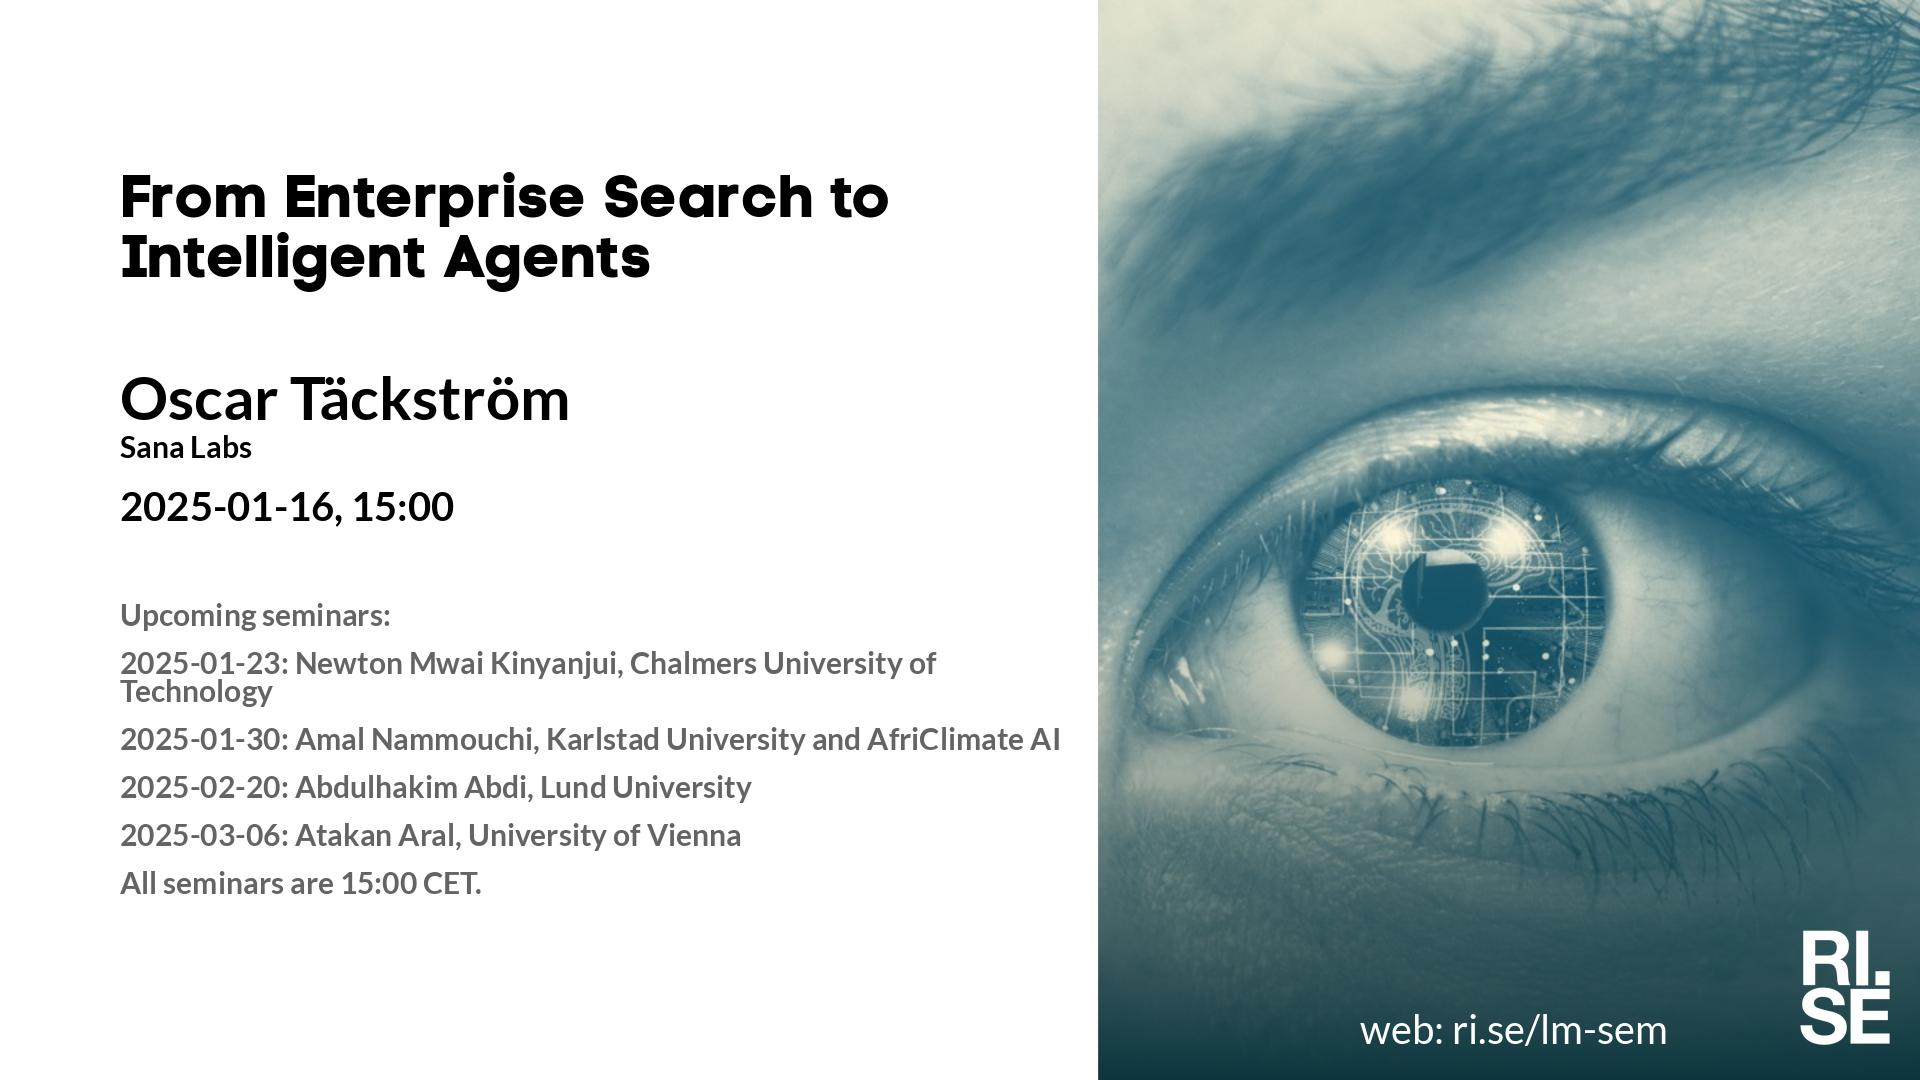
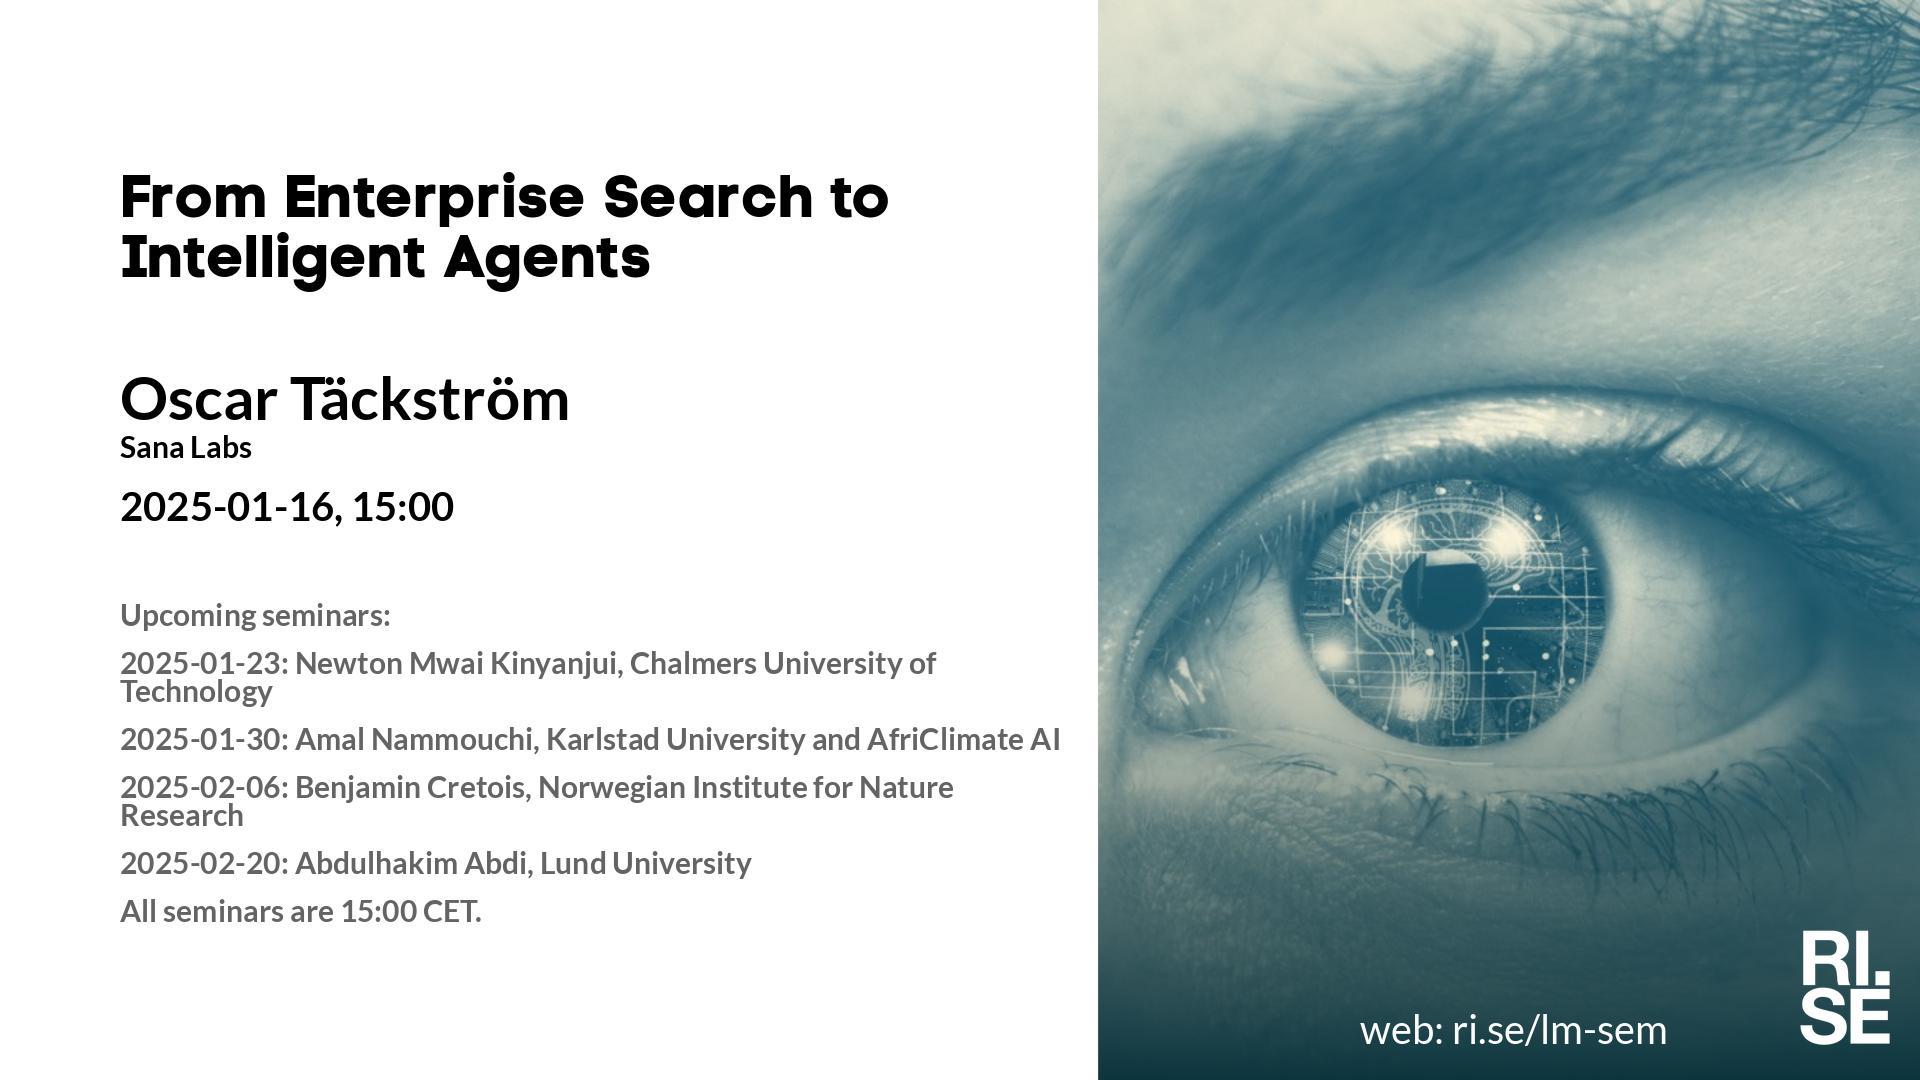
Updated plan on web site.

Changed region(s): [[0.0625, 0.7028, 0.5, 0.8556]]

diff --git a/lm/index.md b/lm/index.md
@@ -13,7 +13,7 @@ table {border-collapse: collapse;}
 |  2025-01-16  |  [Oscar Täckström, Sana Labs](2025-01-16.md)  |  [photo](photo-oscar-tackstrom.jpg)  |  [social media ](social-media-oscar-tackstrom.jpg)  |  [meeting backdrop ](meeting-backdrop-oscar-tackstrom.jpg)  |  [youtube thumbnail ](youtube-thumbnail-oscar-tackstrom.jpg)  |  STABP  |
 |  2025-01-23  |  [Newton Mwai Kinyanjui, Chalmers University of Technology](2025-01-23.md)  |  [photo](photo-newton-mwai-kinyanjui.jpg)  |  [social media ](social-media-newton-mwai-kinyanjui.jpg)  |  [meeting backdrop ](meeting-backdrop-newton-mwai-kinyanjui.jpg)  |  [youtube thumbnail ](youtube-thumbnail-newton-mwai-kinyanjui.jpg)  |  STABP  |
 |  2025-01-30  |  [Amal Nammouchi, Karlstad University and AfriClimate AI](2025-01-30.md)  |  [photo](photo-amal-nammouchi.jpg)  |  [social media ](social-media-amal-nammouchi.jpg)  |  [meeting backdrop ](meeting-backdrop-amal-nammouchi.jpg)  |  [youtube thumbnail ](youtube-thumbnail-amal-nammouchi.jpg)  |  STABP  |
-| <span style="color:grey"> 2025-02-06 </span> | <span style="color:grey"> Benjamin C. ? </span> | <span style="color:grey">  </span> | <span style="color:grey">  </span> | <span style="color:grey">  </span> | <span style="color:grey">  </span> | <span style="color:grey"> S~~TABP~~ </span> |
+|  2025-02-06  |  [Benjamin Cretois, Norwegian Institute for Nature Research](2025-02-06.md)  |    |  [social media ](social-media-benjamin-cretois.jpg)  |  [meeting backdrop ](meeting-backdrop-benjamin-cretois.jpg)  |  [youtube thumbnail ](youtube-thumbnail-benjamin-cretois.jpg)  |  S~~TABP~~  |
 | <span style="color:red"> 2025-02-13 </span> | <span style="color:red"> Sportlov GBG </span> | <span style="color:red">  </span> | <span style="color:red">  </span> | <span style="color:red">  </span> | <span style="color:red">  </span> | <span style="color:red"> CANCELLED </span> |
 |  2025-02-20  |  [Abdulhakim Abdi, Lund University](2025-02-20.md)  |  [photo](photo-abdulhakim-abdi.jpg)  |  [social media ](social-media-abdulhakim-abdi.jpg)  |  [meeting backdrop ](meeting-backdrop-abdulhakim-abdi.jpg)  |  [youtube thumbnail ](youtube-thumbnail-abdulhakim-abdi.jpg)  |  S~~TAB~~P  |
 | <span style="color:red"> 2025-02-27 </span> | <span style="color:red"> Sportlov STHLM </span> | <span style="color:red">  </span> | <span style="color:red">  </span> | <span style="color:red">  </span> | <span style="color:red">  </span> | <span style="color:red"> CANCELLED </span> |

diff --git a/lm/2025-02-06.md b/lm/2025-02-06.md
@@ -1,0 +1,35 @@
+---
+layout: default
+metatags: "<meta name=\"robots\" content=\"noindex,nofollow\" />"
+---
+ 
+Welcome to this week's Learning Machines seminar.
+
+This seminar is a collaboration between RISE and Climate AI Nordics -- [climateainordics.com](https://climateainordics.com/).
+
+**Title:** N/A
+
+**Speaker:** Benjamin Cretois, Norwegian Institute for Nature Research
+
+**Abstract:** N/A
+
+**About the speaker:** N/A
+
+**Location:** This is an online seminar. Connect using Zoom.
+
+**Date:** 2025-02-06 15:00
+
+**Zoom link:** [https://rise.zoom.us/j/69691371971?pwd=zYCr1brygacBa1opkT7BaiYf7Wwt4b.1](https://rise.zoom.us/j/69691371971?pwd=zYCr1brygacBa1opkT7BaiYf7Wwt4b.1)
+
+**Upcoming seminars:**
+
+* 2025-02-20: Abdulhakim Abdi, Lund University
+* 2025-03-06: Atakan Aral, University of Vienna
+* 2025-03-13: Sherrie Wang, MIT
+* 2025-03-27: María J. Molina, University of Maryland
+* All seminars are 15:00 CET.
+
+More information and coming seminars: [https://ri.se/lm-sem](https://ri.se/lm-sem)
+
+-- The Learning Machines Team
+

diff --git a/lm/2025-01-16.md b/lm/2025-01-16.md
@@ -28,8 +28,8 @@ Sana is an AI company on a mission to advance how humans access knowledge with A
 
 * 2025-01-23: Newton Mwai Kinyanjui, Chalmers University of Technology
 * 2025-01-30: Amal Nammouchi, Karlstad University and AfriClimate AI
+* 2025-02-06: Benjamin Cretois, Norwegian Institute for Nature Research
 * 2025-02-20: Abdulhakim Abdi, Lund University
-* 2025-03-06: Atakan Aral, University of Vienna
 * All seminars are 15:00 CET.
 
 More information and coming seminars: [https://ri.se/lm-sem](https://ri.se/lm-sem)

diff --git a/lm/2025-01-23.md b/lm/2025-01-23.md
@@ -26,9 +26,9 @@ In this presentation, I will discuss how we leverage structures with latent band
 **Upcoming seminars:**
 
 * 2025-01-30: Amal Nammouchi, Karlstad University and AfriClimate AI
+* 2025-02-06: Benjamin Cretois, Norwegian Institute for Nature Research
 * 2025-02-20: Abdulhakim Abdi, Lund University
 * 2025-03-06: Atakan Aral, University of Vienna
-* 2025-03-13: Sherrie Wang, MIT
 * All seminars are 15:00 CET.
 
 More information and coming seminars: [https://ri.se/lm-sem](https://ri.se/lm-sem)

diff --git a/lm/2025-01-30.md b/lm/2025-01-30.md
@@ -23,10 +23,10 @@ This seminar is a collaboration between RISE and Climate AI Nordics -- [climatea
 
 **Upcoming seminars:**
 
+* 2025-02-06: Benjamin Cretois, Norwegian Institute for Nature Research
 * 2025-02-20: Abdulhakim Abdi, Lund University
 * 2025-03-06: Atakan Aral, University of Vienna
 * 2025-03-13: Sherrie Wang, MIT
-* 2025-03-27: María J. Molina, University of Maryland
 * All seminars are 15:00 CET.
 
 More information and coming seminars: [https://ri.se/lm-sem](https://ri.se/lm-sem)
